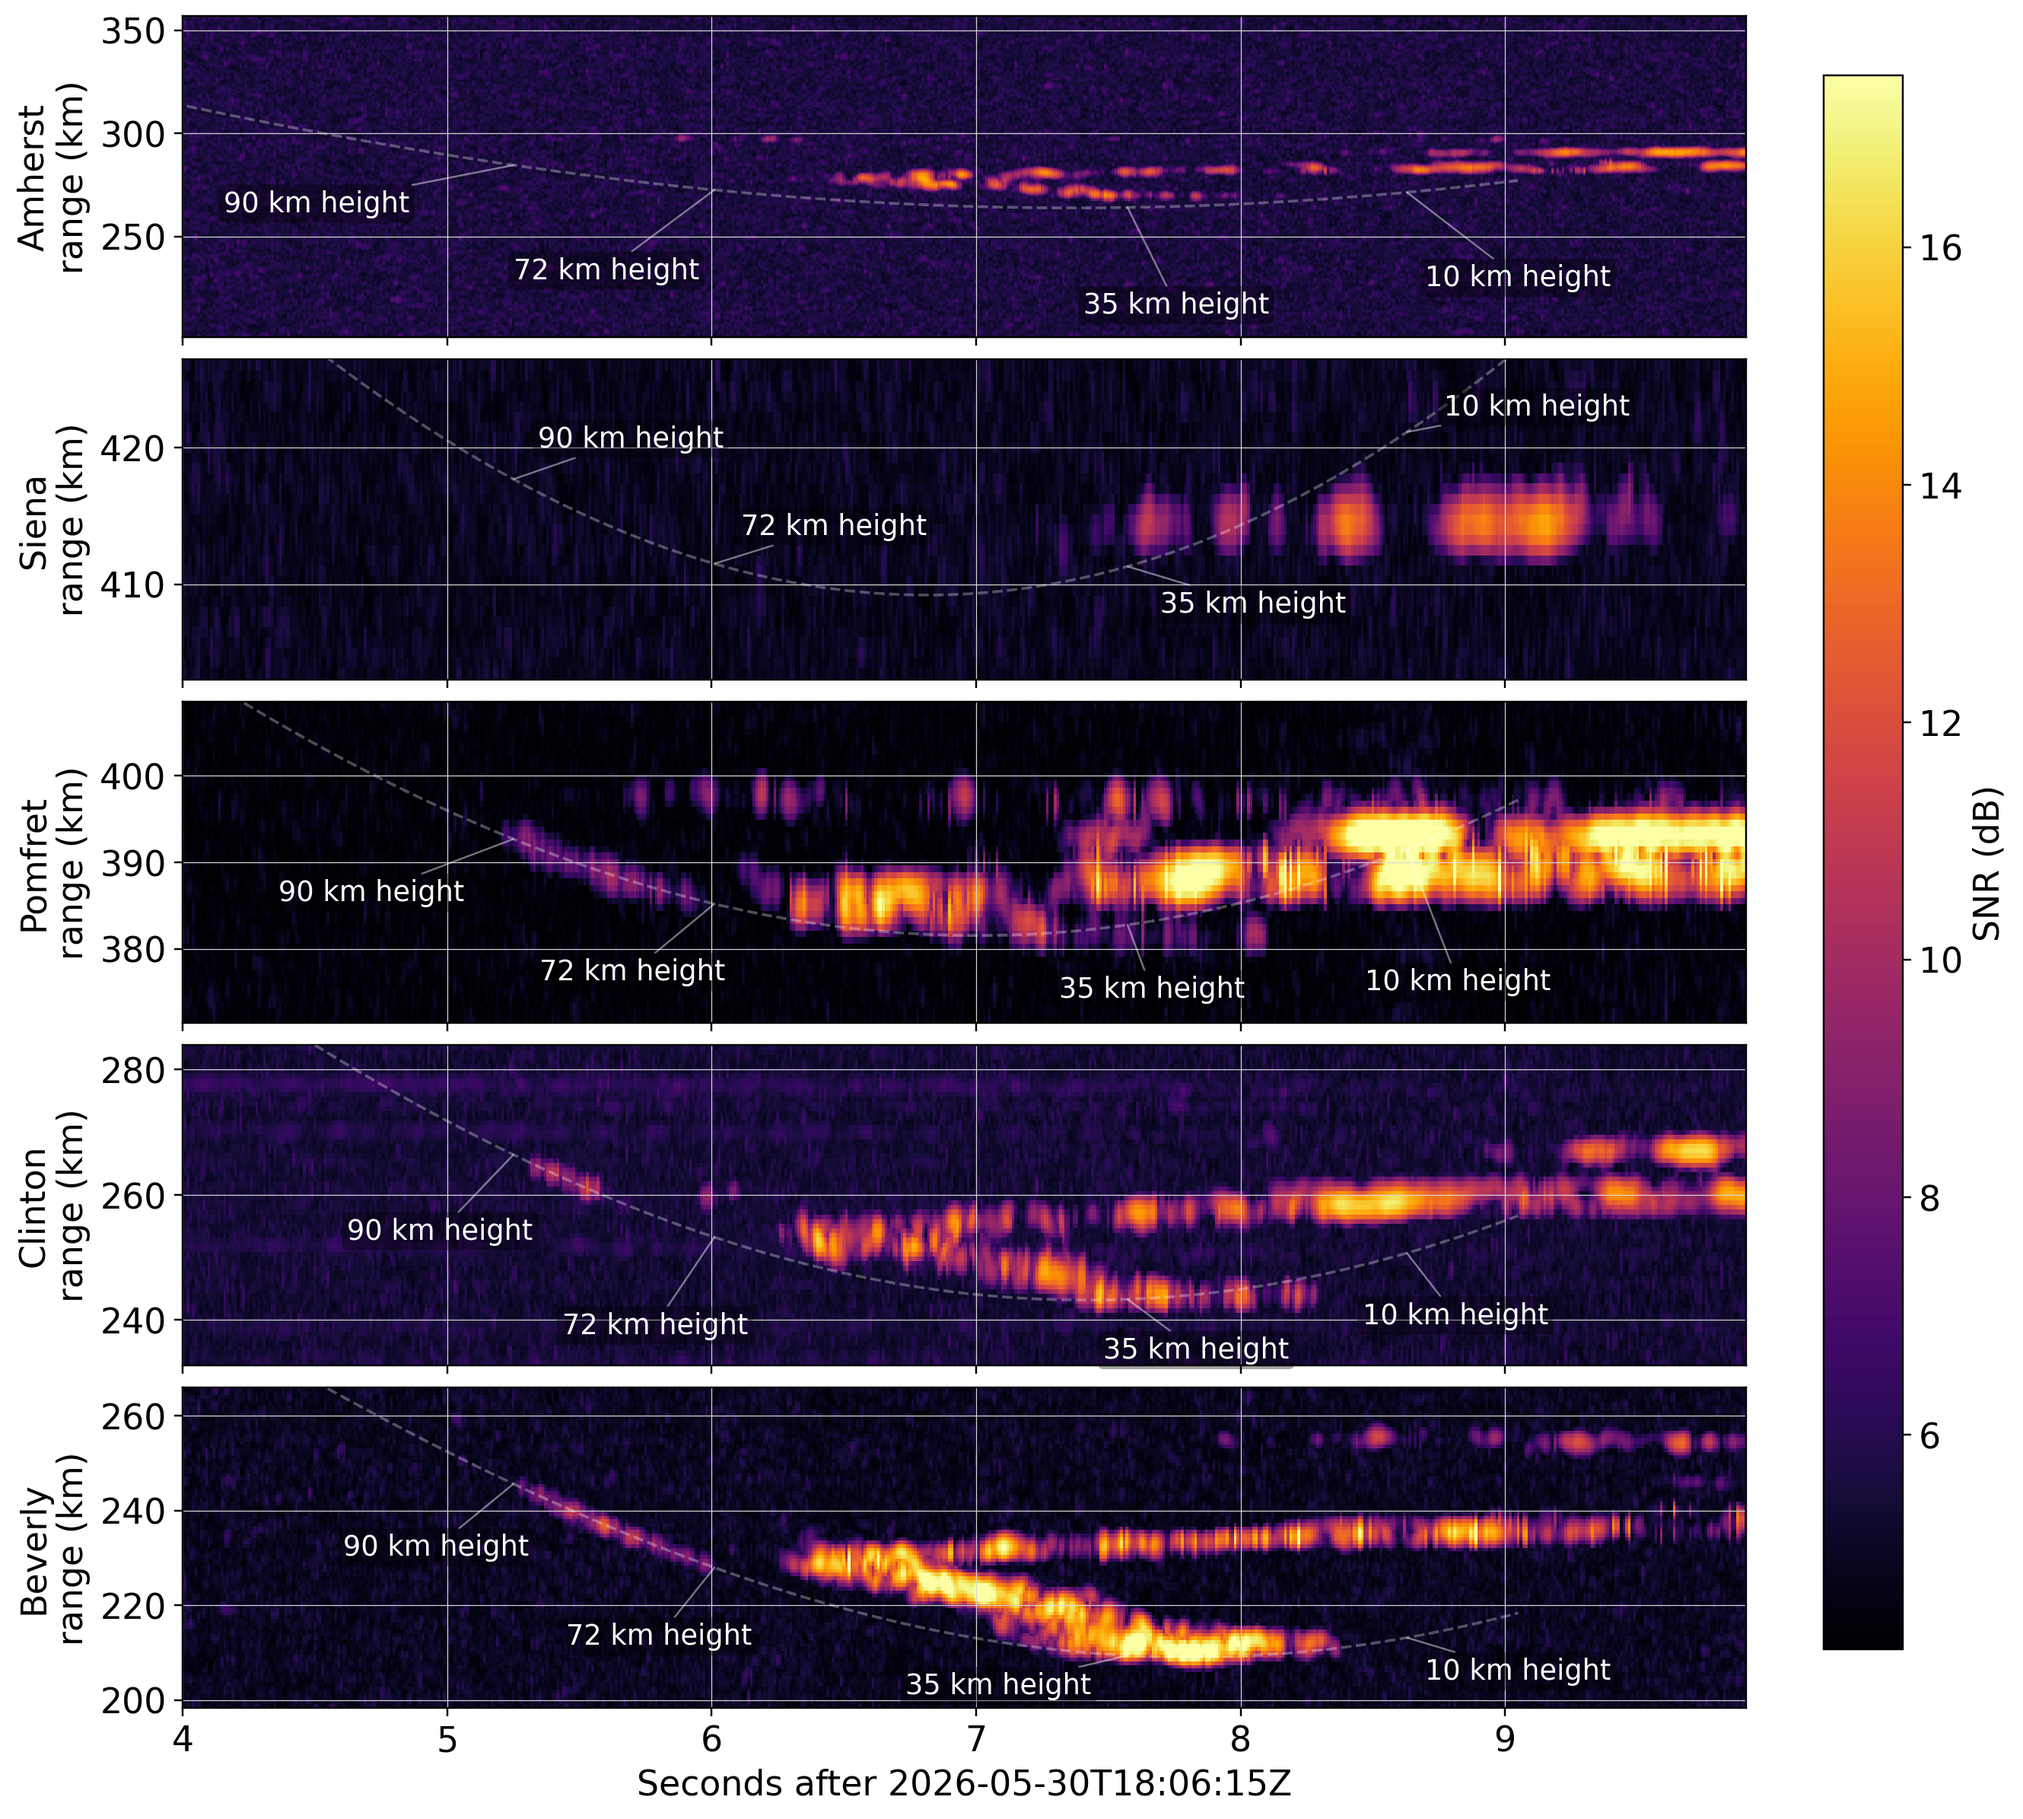
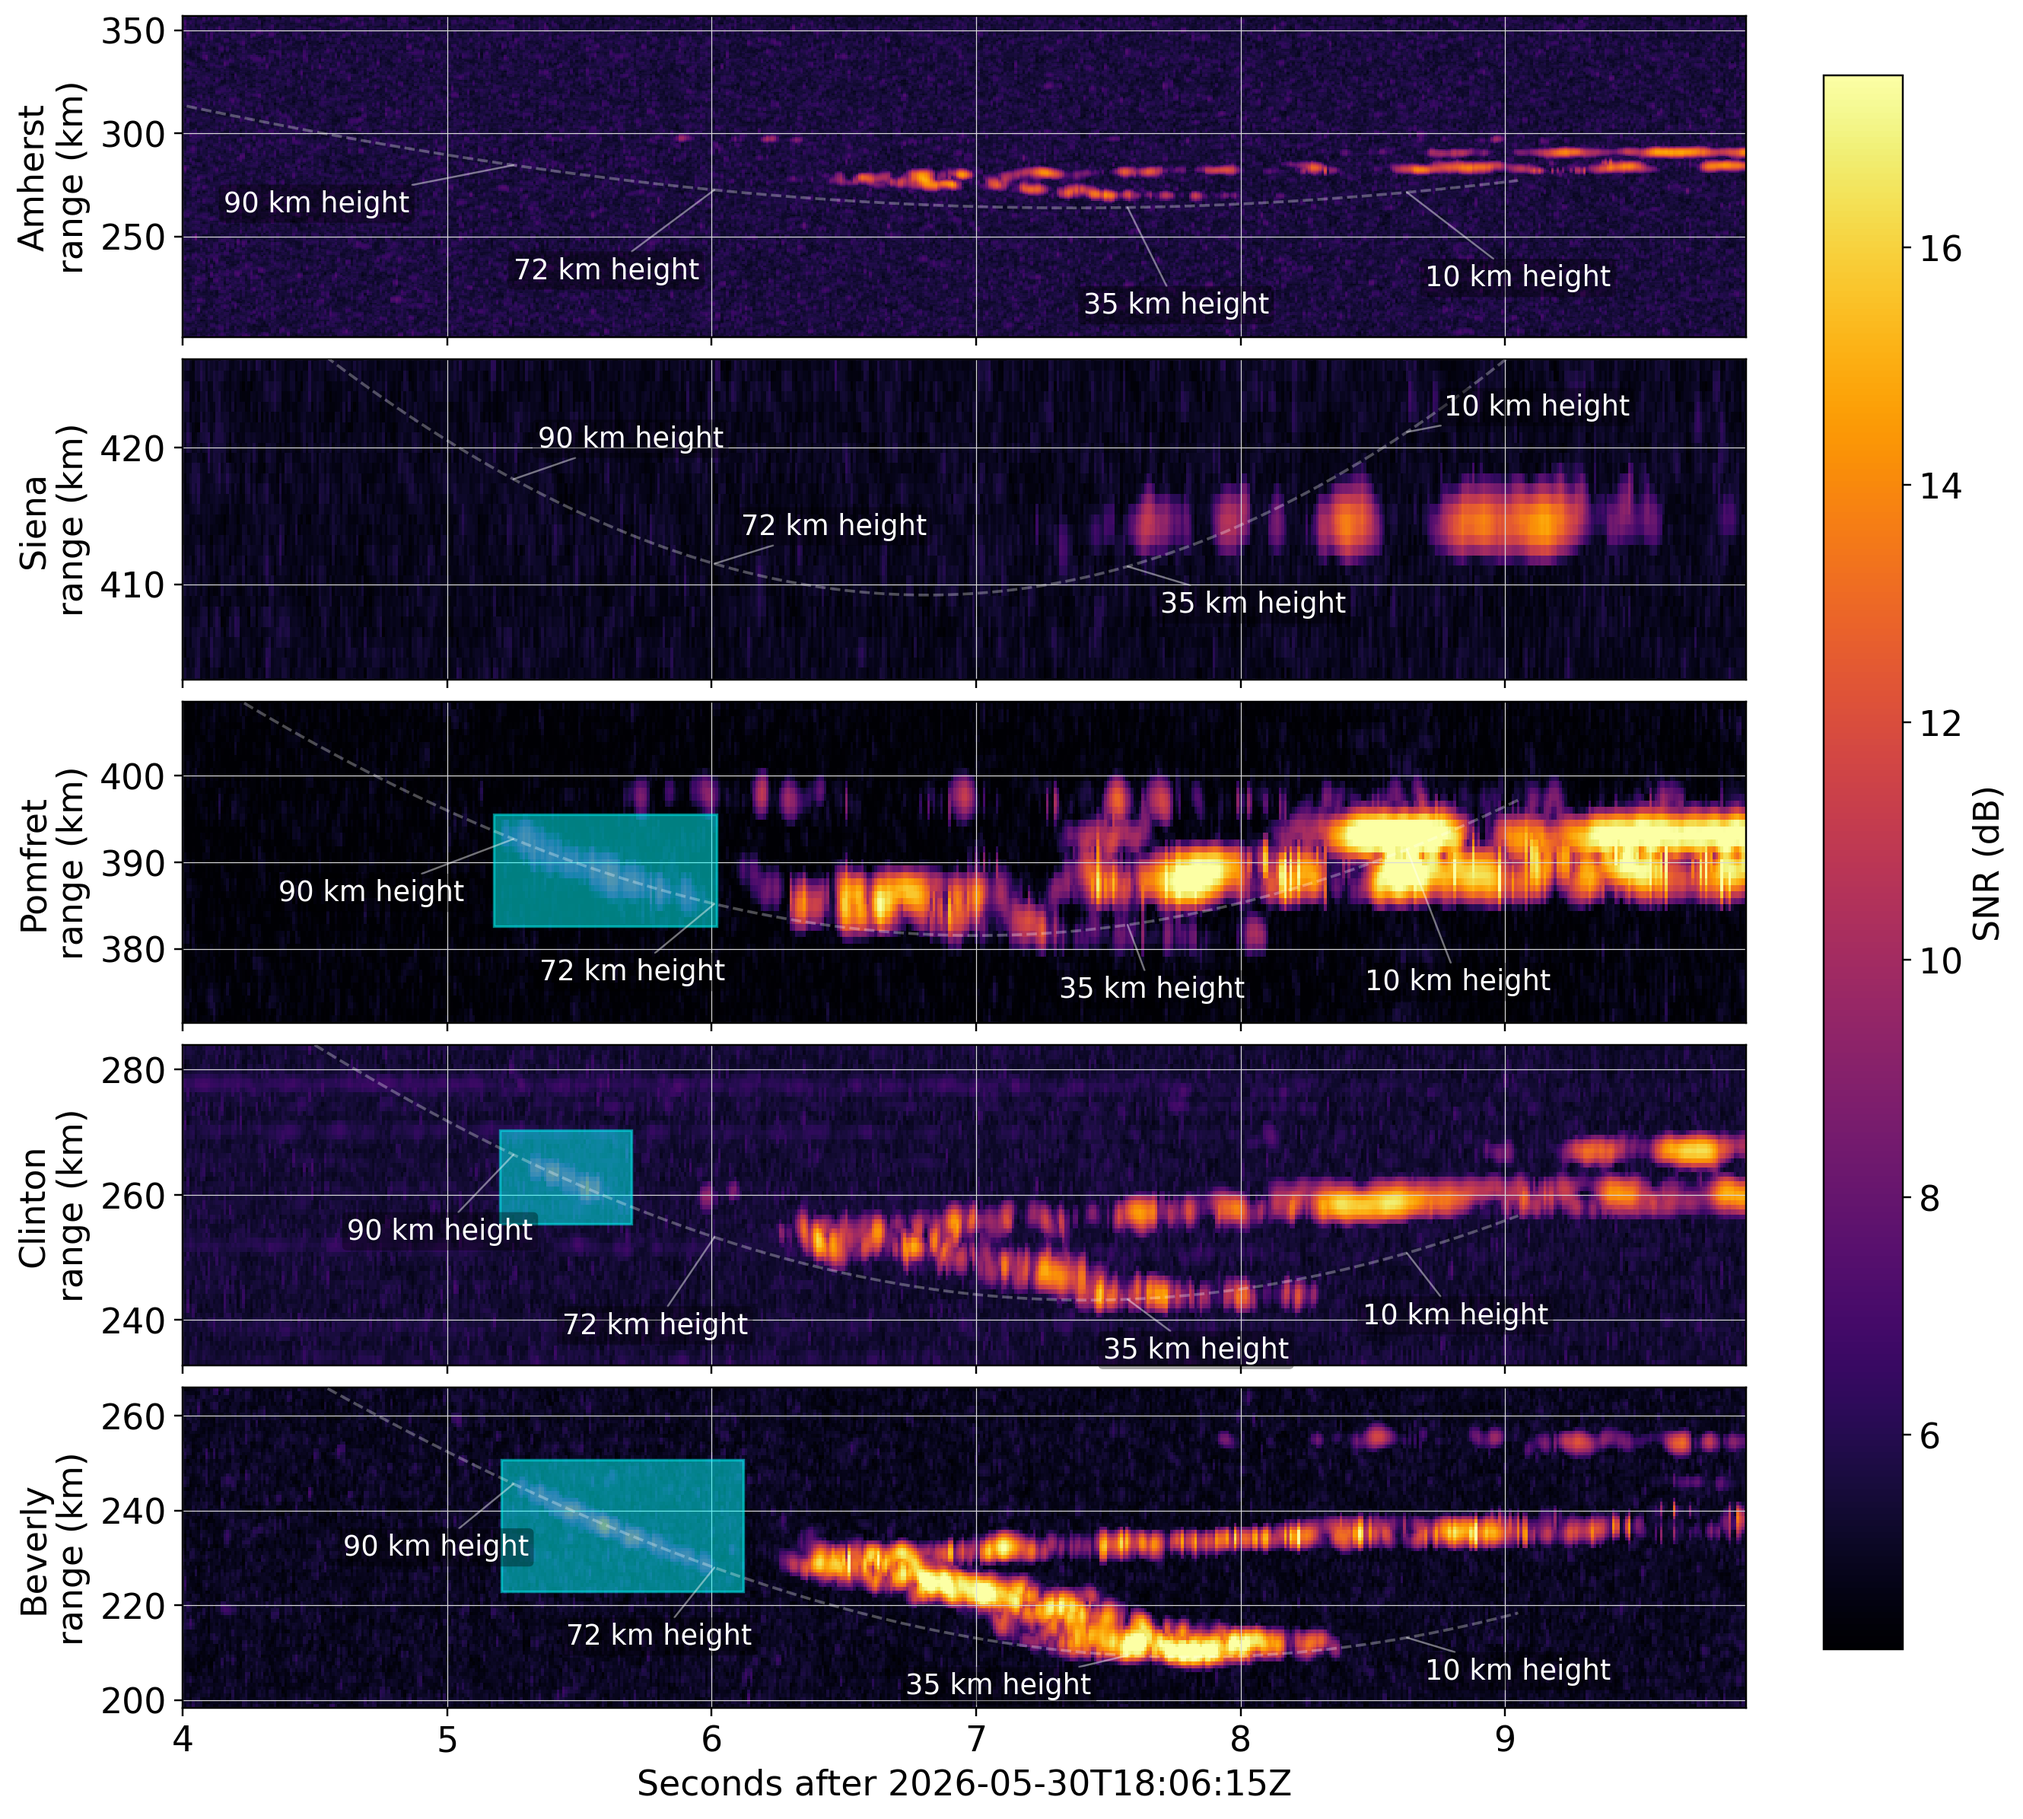
Overlay head ROI on trail figure

Changed region(s): [[0.2185, 0.4335, 0.3746, 0.5264], [0.2497, 0.805, 0.3746, 0.8979], [0.2497, 0.6192, 0.3121, 0.6812]]

diff --git a/trail_echo_roi.py b/trail_echo_roi.py
@@ -8,6 +8,7 @@ from pathlib import Path
 import h5py
 import matplotlib.pyplot as plt
 import numpy as np
+from matplotlib.patches import Rectangle
 
 ROOT = Path(__file__).resolve().parent
 sys.path.insert(0, str(ROOT))
@@ -26,6 +27,7 @@ DEFAULT_ALTITUDE_OVERLAY_PLOT = "reports/figures/trail_echo_roi_trail_altitude.p
 DEFAULT_POINTS = "products/trail_echo_roi/trail_echo_roi_points.json"
 DEFAULT_TRAIL_SUMMARY = "products/specular_trail_positions/specular_trail_position_summary.json"
 DEFAULT_HEIGHT_LABELS = "annotations/trail_height_annotations.json"
+DEFAULT_HEAD_ROIS = "annotations/head_echo_rois.json"
 ALTITUDE_TICKS_KM = np.array([85.0, 80.0, 75.0])
 HEIGHT_LABELS_KM = (90.0, 72.0, 35.0, 10.0)
 REPORT_RANGE_WINDOWS_KM = {
@@ -317,6 +319,34 @@ def load_height_label_annotations(path):
     return labels
 
 
+def load_head_roi_annotations(path):
+    path = Path(path)
+    if not path.exists():
+        return {}
+    payload = json.loads(path.read_text(encoding="utf-8"))
+    return payload.get("stations", {})
+
+
+def draw_head_roi_box(ax, head_roi, t_ref):
+    if not head_roi or not head_roi.get("has_head_echo"):
+        return
+    t0 = float(head_roi["time_range"]["start_unix"]) - t_ref
+    t1 = float(head_roi["time_range"]["end_unix"]) - t_ref
+    r0 = float(head_roi["range_km"]["min"])
+    r1 = float(head_roi["range_km"]["max"])
+    rect = Rectangle(
+        (min(t0, t1), min(r0, r1)),
+        abs(t1 - t0),
+        abs(r1 - r0),
+        facecolor="cyan",
+        edgecolor="cyan",
+        linewidth=1.1,
+        alpha=0.5,
+        zorder=4,
+    )
+    ax.add_patch(rect)
+
+
 def annotate_manual_height_labels(ax, track, station_labels, label_size):
     for label in height_label_positions(np.asarray(track["t_rel"], dtype=float), track):
         height_km = label["height_km"]
@@ -361,6 +391,7 @@ def draw_roi_figure(
     trajectory_json,
     altitude_points=None,
     height_labels=None,
+    head_rois=None,
 ):
     axis_label_size = 10 * REPORT_FONT_SCALE
     tick_label_size = 10 * REPORT_FONT_SCALE
@@ -374,6 +405,7 @@ def draw_roi_figure(
         if station in head_echo_range_tracks:
             head_echo_range_tracks[station]["t_rel"] = data["t_unix"] - t_ref
     height_labels = height_labels or {}
+    head_rois = head_rois or {}
     t_max = max(float(data["t_unix"][-1]) for data in datasets) - t_ref
     snr_all = []
     for data in datasets:
@@ -411,6 +443,7 @@ def draw_roi_figure(
                 alpha=0.3,
                 zorder=5,
             )
+        draw_head_roi_box(ax, head_rois.get(station), t_ref)
         ax.set_ylabel(f"{short_station_name(station)}\nrange (km)", fontsize=axis_label_size)
         ax.tick_params(axis="both", labelsize=tick_label_size)
 
@@ -479,6 +512,7 @@ def main():
     p.add_argument("--altitude-overlay-plot", default=None)
     p.add_argument("--trail-summary", default=DEFAULT_TRAIL_SUMMARY)
     p.add_argument("--height-labels", default=DEFAULT_HEIGHT_LABELS)
+    p.add_argument("--head-rois", default=DEFAULT_HEAD_ROIS)
     p.add_argument("--overlay-only", action="store_true")
     p.add_argument("--trajectory-json", default=DEFAULT_TRAJECTORY_JSON)
     args = p.parse_args()
@@ -497,6 +531,7 @@ def main():
             args.trajectory_json,
             altitude_points=load_trail_altitude_points(args.trail_summary),
             height_labels=load_height_label_annotations(args.height_labels),
+            head_rois=load_head_roi_annotations(args.head_rois),
         )
         print(f"Wrote {args.altitude_overlay_plot}")
         return
@@ -558,6 +593,7 @@ def main():
         args.max_abs_doppler_hz,
         args.trajectory_json,
         height_labels=load_height_label_annotations(args.height_labels),
+        head_rois=load_head_roi_annotations(args.head_rois),
     )
     if args.altitude_overlay_plot:
         draw_roi_figure(
@@ -569,6 +605,7 @@ def main():
             args.trajectory_json,
             altitude_points=load_trail_altitude_points(args.trail_summary),
             height_labels=load_height_label_annotations(args.height_labels),
+            head_rois=load_head_roi_annotations(args.head_rois),
         )
     print(f"Wrote {out}")
     print(f"Wrote {points_out}")
